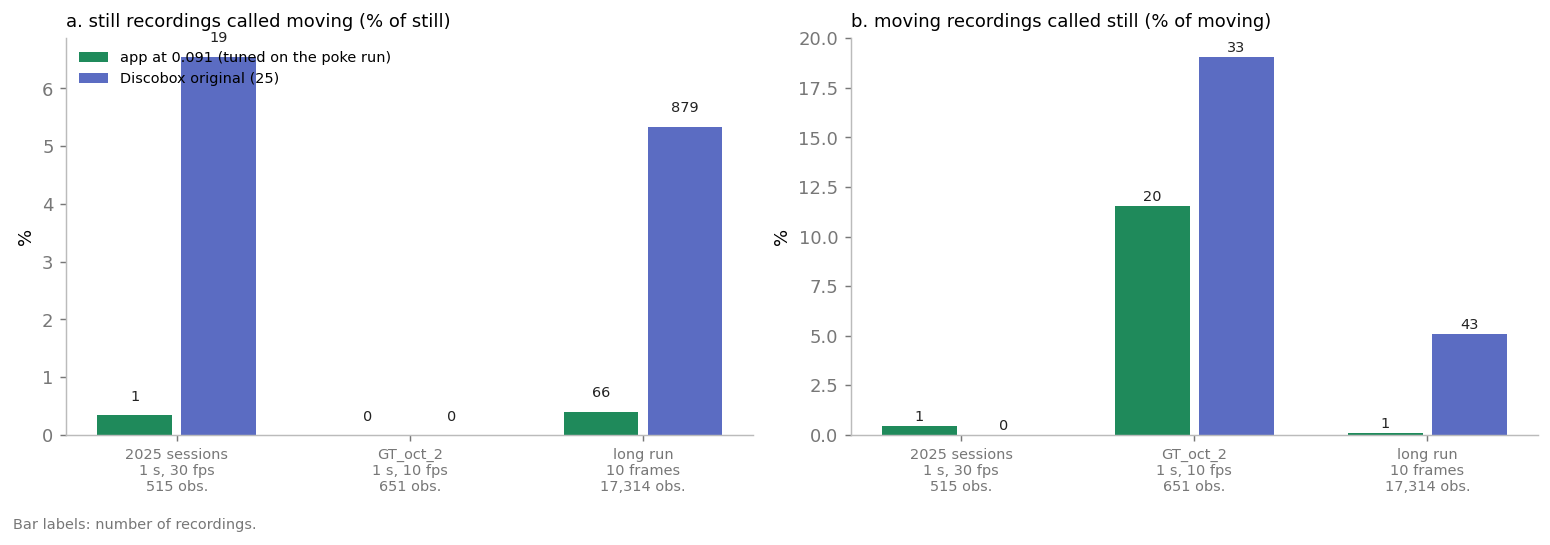
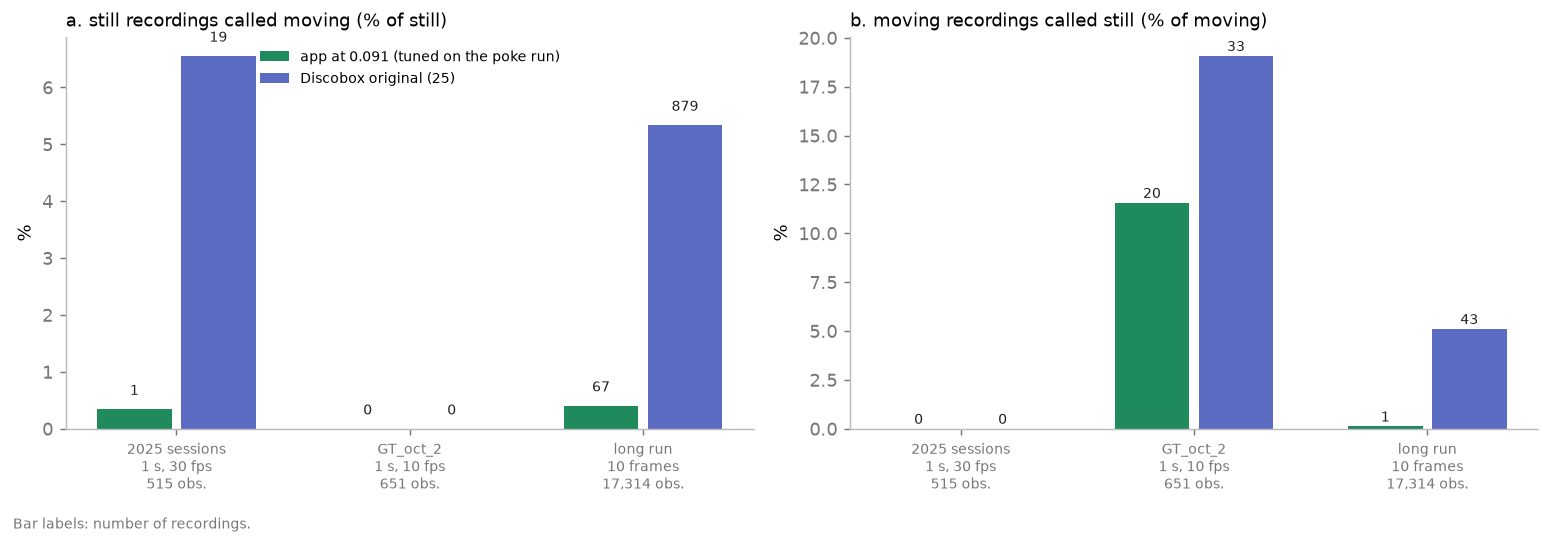
Redo the performance report with F0.25, at the default threshold 0.091
Every labelled dataset scored with the code of 30 October; bench_fixed.py takes
the threshold from config.default.yaml (it was fixed at the Optuna search's
0.074) and the F-score from calibration.F_BETA. The tables, the bootstrap
differences and both figures follow; the deaths and the shake table are as
before. The bar chart's legend no longer covers a bar.

diff --git a/report/scripts/bench_fixed.py b/report/scripts/bench_fixed.py
@@ -1,7 +1,10 @@
-"""App at its F0.5 threshold against the original software, per dataset group and pooled. Writes bench_f05.json."""
+"""The app at its default threshold against the original software, per dataset group and pooled, scored by
+the F-score calibration chooses on (calibration.F_BETA: F0.25 since 2026-10-29; the key is still "f05").
+Writes bench_fixed.json."""
 import json, sys
 from pathlib import Path
 import numpy as np
+import yaml
 sys.path.insert(0, str(Path(__file__).resolve().parents[2]))
 from classes.ground_truth import calibration as cal
 E = Path(__file__).parent / "eval"
@@ -31,7 +34,7 @@ def held_out(rows, s, m, splits=200):
             "f05": t[:, 3].mean(), "f05_range": np.percentile(t[:, 3], [5, 95]).tolist()}
 
 def boot_diff(rows, app_called, abil_called, m, n=2000):
-    """95% interval of (app F0.5 - original F0.5), resampling mites."""
+    """95% interval of (app F-score - original F-score), resampling mites."""
     mites = np.array([f'{r["dataset"]}|{r["mite_id"]}' for r in rows]); ids = np.unique(mites)
     where = {i: np.flatnonzero(mites == i) for i in ids}; out = []
     for _ in range(n):
@@ -42,9 +45,11 @@ def boot_diff(rows, app_called, abil_called, m, n=2000):
     return np.percentile(out, [2.5, 50, 97.5]).tolist()
 
 poke = json.load(open(E / 'poke_test_oct.json'))['rows']
-T = cal.best_f05_threshold(np.array([r['score'] for r in poke]), np.array([r['movement'] == 'moving' for r in poke]))
-T = 0.074  # the app's default: the poke run's best F0.5 on the scores the live run gave (mites followed); the calibration report's fixed boxes give 0.108
-print('threshold:', T)
+T_poke = cal.best_f05_threshold(np.array([r['score'] for r in poke]), np.array([r['movement'] == 'moving' for r in poke]))
+# the app's default threshold (config.default.yaml), the poke run's best by F0.5 and F0.25 alike
+T = float(yaml.safe_load(open(Path(__file__).resolve().parents[2] / "config.default.yaml"))["mite"]["metric_thresholds"]["outline_variability"])
+F = f"F{cal.F_BETA:g}"
+print("threshold:", T, "· the poke run's own best", F, round(T_poke, 4))
 res = {}
 allrows = []
 for g, names in list(GROUPS.items()) + [("all four, pooled", None)]:
@@ -61,8 +66,8 @@ for g, names in list(GROUPS.items()) + [("all four, pooled", None)]:
               "f05_diff_ci": boot_diff(rows, app, abil, m),
               "deaths": {k: {kk: v[kk] for kk in ("mae", "n_exact", "n_mites", "n_early", "n_late")} for k, v in deaths.items()}}
     r_ = res[g]
-    print(f"== {g}: {r_['n']} obs ({r_['moving']}/{r_['still']}), {r_['mites']} mites, F0.5 threshold {t:.3f}, AP {r_['ap']:.4f}")
+    print(f"== {g}: {r_['n']} obs ({r_['moving']}/{r_['still']}), {r_['mites']} mites, threshold {t:.3f}, AP {r_['ap']:.4f}")
     for k in ("app", "original"): print("  ", k, {a: round(b, 3) for a, b in r_[k].items()})
-    print("   F0.5 app - original, 95%:", [round(x, 3) for x in r_["f05_diff_ci"]])
+    print(f"   {F} app - original, 95%:", [round(x, 3) for x in r_["f05_diff_ci"]])
     print("   deaths", r_["deaths"])
 json.dump(res, open(Path(__file__).parent / "bench_fixed.json", "w"), default=float)

diff --git a/report/scripts/fig_bench4.py b/report/scripts/fig_bench4.py
@@ -25,7 +25,7 @@ for a, key, den, title in ((ax[0], "still_called_moving", "still", "a. still rec
         for b_, p, v in zip(bars, pct, n):
             a.text(b_.get_x() + b_.get_width() / 2, p + 0.25, f"{int(v)}", ha="center", fontsize=8, color=INK)
     a.set_xticks(x); a.set_xticklabels(lab, fontsize=8); a.set_title(title, loc="left", fontsize=10); a.set_ylabel("%")
-ax[0].legend(frameon=False, fontsize=8, loc="upper left")
+ax[0].legend(frameon=False, fontsize=8, loc="upper center")  # over GT_oct_2, which has no bars
 fig.text(0.01, -0.03, "Bar labels: number of recordings.", fontsize=8, color=MUTED)
 fig.tight_layout(); fig.savefig(OUT / "benchmark_bars.png", bbox_inches="tight")
 

diff --git a/report/3_performance.md b/report/3_performance.md
@@ -1,18 +1,22 @@
 # Varroa detector for the Discobox: performance against the original software
 
-*Agroscope · status of 26 October 2026 · part 4 of 4*
+*Agroscope · status of 30 October 2026 · part 3 of 3*
 
 *Part 1 (`1_user_manual.md`) explains how to use the app, part 2 (`2_how_it_works.md`) what
-it computes, and part 3 (`visual_how_it_works.md`) runs it step by step on one mite. This part compares the app with the Discobox's original analysis software:
-how well each calls moving and still against labels made by eye, and how fast, how much
-memory and how much disk each takes.*
+it computes, with each step run on one real mite. This part compares the app with the Discobox's original analysis software: how well each calls
+moving and still against labels made by eye, and how fast, how much memory and how much
+disk each takes.*
 
-Both were run on the same mite-recordings on 26 October 2026: the app with its current code,
-the original with its own code and constants (`classes/scoring/benchmark.py`). **The app
-uses one threshold, 0.091**, the best on the poke run by F0.5 and by F0.25 alike (part 2, section 6), the
-app's default. The poke run was
-used only to set it, so it is not among the datasets the methods are compared on. The
-original uses its fixed threshold of 25.
+Both were run on the same mite-recordings: the app with its code of 30 October 2026, the
+original with its own code and constants (`classes/scoring/benchmark.py`). **The app uses
+one threshold, 0.091**, its default, the best on the poke run by F0.25 (part 2, section 6).
+The poke run was used only to set it, so it is not among the datasets the methods are
+compared on. The original uses its fixed threshold of 25.
+
+The calls are judged by **F0.25**, the score the app's calibration chooses its threshold on:
+it weighs a still recording called moving sixteen times as much as a moving one called
+still, because a single false *moving* brings a dead mite back to life (part 2, section 6).
+The speed, memory and storage of section 6 were measured on 26 October 2026.
 
 
 ## 1. The data
@@ -49,7 +53,7 @@ touches the mite's box.
 | Finds the mites | no, counts changed spots | yes, on the first frame |
 | Measure | frame-to-first difference, OR, threshold 25 | variance on the outline, vector sum, ÷ noise floor |
 | Shake and flicker | not handled | per-mite stabilisation, lamp correction, vector sum |
-| Threshold | fixed at 25 | 0.091, calibrated on the poke run (best F0.5) |
+| Threshold | fixed at 25 | 0.091, calibrated on the poke run (best F0.25) |
 | Output | spots per recording ("mites alive") | moving/still per mite, survival per group |
 
 ---
@@ -58,32 +62,35 @@ touches the mite's box.
 
 ![Wrong calls per dataset](images/benchmark_bars.png)
 
-| Dataset | Method | Accuracy | Precision | Recall | Still called moving | Moving called still | F0.5 |
+| Dataset | Method | Accuracy | Precision | Recall | Still called moving | Moving called still | F0.25 |
 |---|---|---:|---:|---:|---:|---:|---:|
-| 2025 sessions | **app, 0.091** | **0.996** | **0.996** | 0.996 | **1** | 1 | **0.996** |
-| | original (25) | 0.963 | 0.922 | 1.000 | 19 | 0 | 0.937 |
-| GT_oct_2 | **app, 0.091** | **0.969** | 1.000 | **0.884** | 0 | **20** | **0.975** |
-| | original (25) | 0.949 | 1.000 | 0.809 | 0 | 33 | 0.955 |
-| Long run | **app, 0.091** | **0.996** | **0.927** | **0.999** | **66** | **1** | **0.941** |
-| | original (25) | 0.947 | 0.476 | 0.949 | 879 | 43 | 0.529 |
-| **Sum of the three** | **app** | | | | **67** | **22** | |
+| 2025 sessions | **app, 0.091** | **0.998** | **0.996** | 1.000 | **1** | 0 | **0.996** |
+| | original (25) | 0.963 | 0.922 | 1.000 | 19 | 0 | 0.926 |
+| GT_oct_2 | **app, 0.091** | **0.969** | 1.000 | **0.884** | 0 | **20** | **0.992** |
+| | original (25) | 0.949 | 1.000 | 0.809 | 0 | 33 | 0.986 |
+| Long run | **app, 0.091** | **0.996** | **0.926** | **0.999** | **67** | **1** | **0.930** |
+| | original (25) | 0.947 | 0.476 | 0.949 | 879 | 43 | 0.491 |
+| **Sum of the three** | **app** | | | | **68** | **21** | |
 | | original (25) | | | | 898 | 76 | |
 
 *Precision: of the recordings called moving, the share labelled moving. Recall: of the
-recordings labelled moving, the share called moving. F0.5 weighs a still recording called
-moving four times as much as a moving one called still.*
+recordings labelled moving, the share called moving. F0.25 weighs a still recording called
+moving sixteen times as much as a moving one called still, so it rewards precision far more
+than recall: on `GT_oct_2`, where neither method calls a still recording moving, both score
+close to 1 although the original misses 13 more movements.*
 
 **Is the difference more than chance?** The observations aren't independent (a hard mite is
 hard in every recording), so the mites were resampled with replacement 2,000 times, the
-threshold staying at 0.091. The app's F0.5 minus the original's, median and 95 % interval:
+threshold staying at 0.091. The app's F0.25 minus the original's, median and 95 % interval:
 
-| Dataset | Difference in F0.5 |
+| Dataset | Difference in F0.25 |
 |---|---|
-| 2025 sessions | +0.058 (+0.032 to +0.087) |
-| GT_oct_2 | +0.019 (+0.007 to +0.034) |
-| Long run | +0.412 (+0.322 to +0.504) |
+| 2025 sessions | +0.068 (+0.039 to +0.102) |
+| GT_oct_2 | +0.006 (+0.002 to +0.011) |
+| Long run | +0.440 (+0.346 to +0.532) |
 
-Every interval excludes 0.
+Every interval excludes 0. The gain is largest where the original calls still recordings
+moving (the long run), which F0.25 punishes most.
 
 
 
@@ -96,7 +103,7 @@ death by the labels: mean distance in recordings, and the mites exact.
 
 | Dataset | App at 0.091 | Original (25) |
 |---|---|---|
-| 2025 sessions (86 mites) | **0.02** (85 / 86 exact) | 0.09 (81 / 86) |
+| 2025 sessions (86 mites) | **0.02** (85 / 86 exact, 1 late) | 0.09 (81 / 86, 5 late) |
 | GT_oct_2 (21) | **0.24** (19 / 21, 2 early) | 0.71 (17 / 21, 4 early) |
 | Long run (59) | **3.4** (50 / 59, 9 late) | 199.6 (3 / 59, 56 late) |
 

diff --git a/report/scripts/README.md b/report/scripts/README.md
@@ -10,7 +10,7 @@ missing (`figure_kit.py`). The figures draw with the app's constants as they are
 
 | Figure (`report/images/`) | Report | Made by |
 |---|---|---|
-| `walk_*.png` | `visual_how_it_works.md` | `scripts/visual_walkthrough.py --long-run %TEMP%\zzrc\perf\long_run` (the poke run from `%TEMP%\zzrc\gt`) |
+| `walk_*.png` | `2_how_it_works.md` (each section's example) | `scripts/visual_walkthrough.py --long-run %TEMP%\zzrc\perf\long_run` (the poke run from `%TEMP%\zzrc\gt`) |
 | `app_*.png` (`app_calibration_*` too), `mite_outline_app.png` | `1_user_manual.md`, `2_how_it_works.md` | `scripts/readme_screenshots.mjs`, then `scripts/readme_images.py` (the 2025 test sessions only; the calibration pages calibrate on `ground_truth_60min` and test on `ground_truth_90min`). `readme_images.py` also writes `docs/images/`: check those out again (`git checkout -- docs/images`) to leave README.md's pictures as they are |
 | `detector_steps.png` | `2_how_it_works.md` | `figures2.py` |
 | `outline_unrolled.png`, `outline_vector_sum.png` | `2_how_it_works.md` | `outline_data.py` (the data), then `fig_outline.py` |
@@ -20,8 +20,9 @@ missing (`figure_kit.py`). The figures draw with the app's constants as they are
 | `benchmark_bars.png`, `benchmark_shake.png` | `3_performance.md` | `evaluate.py` (every labelled mite-recording, scored by the app and by the original software, to `eval/`), `bench_fixed.py` (the table, `bench_fixed.json`), then `fig_bench4.py`; the shake is from `scripts/shaky_recordings.py` |
 | `speed_memory_storage.png` | `3_performance.md` | `speed.py app\|original shipped\|1` and `memory.py app\|original` (each adds a line to `speed.jsonl`), then `fig_speed.py` |
 
-`bench_fixed.json` and `speed.jsonl` are the measurements the performance report quotes
-(26 October 2026, on the dev laptop).
+`bench_fixed.json` (30 October 2026, the app at its default threshold, judged by F0.25) and
+`speed.jsonl` (26 October 2026) are the measurements the performance report quotes, both on
+the dev laptop. `eval/` (not in git) holds the scored rows `evaluate.py` writes.
 
 The figures in `README.md` (`docs/images/`) are the walkthrough's, the screenshots and the
 performance report's, copied by `scripts/readme_images.py`. `scripts/benchmark_original.py`
